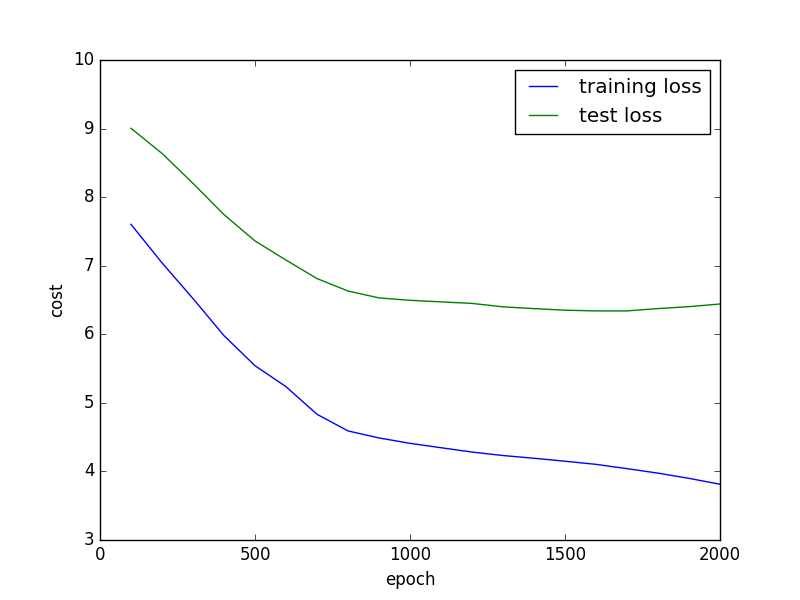
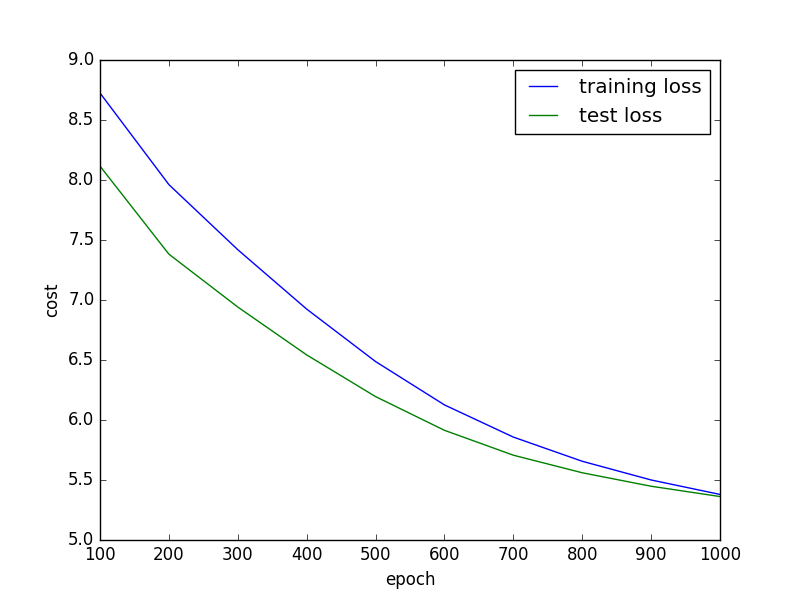
add more stats to evaluate the results

diff --git a/nn/regression.py b/nn/regression.py
@@ -50,7 +50,7 @@ y_train = [ [float(x[-1])] for x in train_set ]
 
 # Parameters
 learning_rate   = 0.001
-training_epochs = 2000
+training_epochs = 1000
 display_step    = 100
 
 
@@ -101,7 +101,13 @@ cost = tf.reduce_mean(tf.square(pred - y))
 #optm = tf.train.GradientDescentOptimizer(learning_rate=learning_rate).minimize(cost)
 optm = tf.train.AdamOptimizer(learning_rate).minimize(cost)
 ##corr = tf.equal(tf.argmax(pred, 1), tf.argmax(y, 1))
-#accr = tf.reduce_mean(tf.cast(corr, "float"))
+
+mae = tf.reduce_mean(tf.abs(pred - y))
+rmse = tf.sqrt(tf.reduce_mean(tf.square(pred - y)))
+
+y_avg = reduce(lambda x_, y_: x[0] + y[0], y_train) / len(y_train)
+rae = mae/(tf.reduce_mean(tf.abs(y_avg - y)))
+rrse = rmse/tf.sqrt(tf.reduce_mean(tf.square(y_avg - y)))
 
 
 # Initializing the variables
@@ -132,13 +138,36 @@ for epoch in range(training_epochs):
         test_costs.append(test_loss)
 
 
-train_loss = sess.run(cost, feed_dict={x: x_train, y: y_train})
-test_loss = sess.run(cost, feed_dict={x: x_test, y: y_test})
-training_costs.append(train_loss)
-test_costs.append(test_loss)
-print "Train Loss: ", train_loss
-print "Test Loss: ", test_loss
-print "Absolute Loss Difference: ", abs(test_loss - train_loss)
+def get_stats(xs, ys):
+    stats = {
+        'loss': sess.run(cost, feed_dict={x: xs, y: ys}),
+        'mae': sess.run(mae, feed_dict={x: xs, y: ys}),
+        'rmse': sess.run(rmse, feed_dict={x: xs, y: ys}),
+        'rae': sess.run(rae, feed_dict={x: xs, y: ys}),
+        'rrse': sess.run(rrse, feed_dict={x: xs, y: ys})
+    }
+    return stats
+
+def print_stats(stats):
+    print "Loss (Mean Squared Error): ", round(stats['loss'], 4)
+    print "Mean Absolute Error: ", round(stats['mae'], 4)
+    print "Root Mean Squared Error: ", round(stats['rmse'], 4)
+    print "Relative Absolute Error: ", round(stats['rae'] * 100, 4), '%'
+    print "Root Relative Squared Error: ", round(stats['rrse'] * 100, 4), '%'
+
+train_stats = get_stats(x_train, y_train)
+test_stats = get_stats(x_test, y_test)
+
+training_costs.append(train_stats['loss'])
+test_costs.append(test_stats['loss'])
+
+
+print "=== Train Set ==="
+print_stats(train_stats)
+print "=== Test Set ==="
+print_stats(test_stats)
+print "==="
+print "Absolute Loss Difference: ", round(abs(test_stats['loss'] - train_stats['loss']), 4)
 
 
 # Sort train set by dependant variable to look nice on chart
